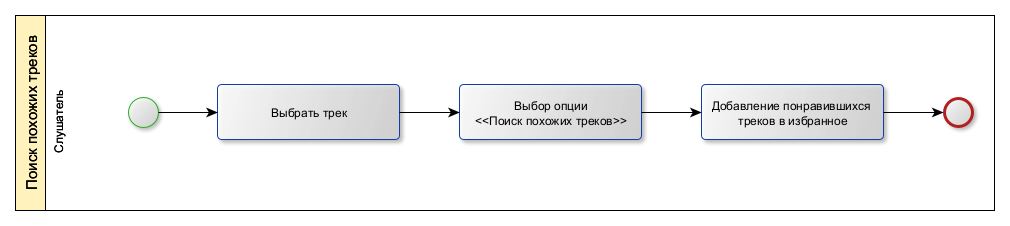
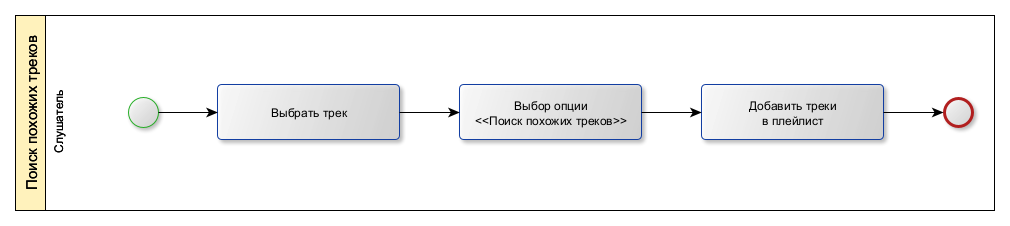
bpmn updated

Changed region(s): [[0.7059, 0.4336, 0.8594, 0.5575]]

diff --git a/README.md b/README.md
@@ -2,10 +2,12 @@
 
 # Тема: Музыкальный сервис
 
+# Название: Muzyaka
+
 ### Идея проекта
 Создать приложение, которое предоставляет пользователю возможность авторизоваться и прослушивать треки.
-Понравившиеся треки можно добавить в избранное.  
-Приложение позволяет просматривать события конкретного исполнителя. В приложении будет рекомендательная система, которая позволяет подобрать треки похожие на заданный.
+Понравившиеся треки можно добавить в плейлист (избранное).  
+Приложение позволяет просматривать события и мерч конкретного исполнителя. В приложении будет рекомендательная система, которая позволяет подобрать треки похожие на заданный.
 
 ### Описание предметной области
 Предметная область --- приложение музыкального сервиса, включающее: регистрацию пользователей, добавление новых музыкальных композиций, формирование списка избранных треков.
